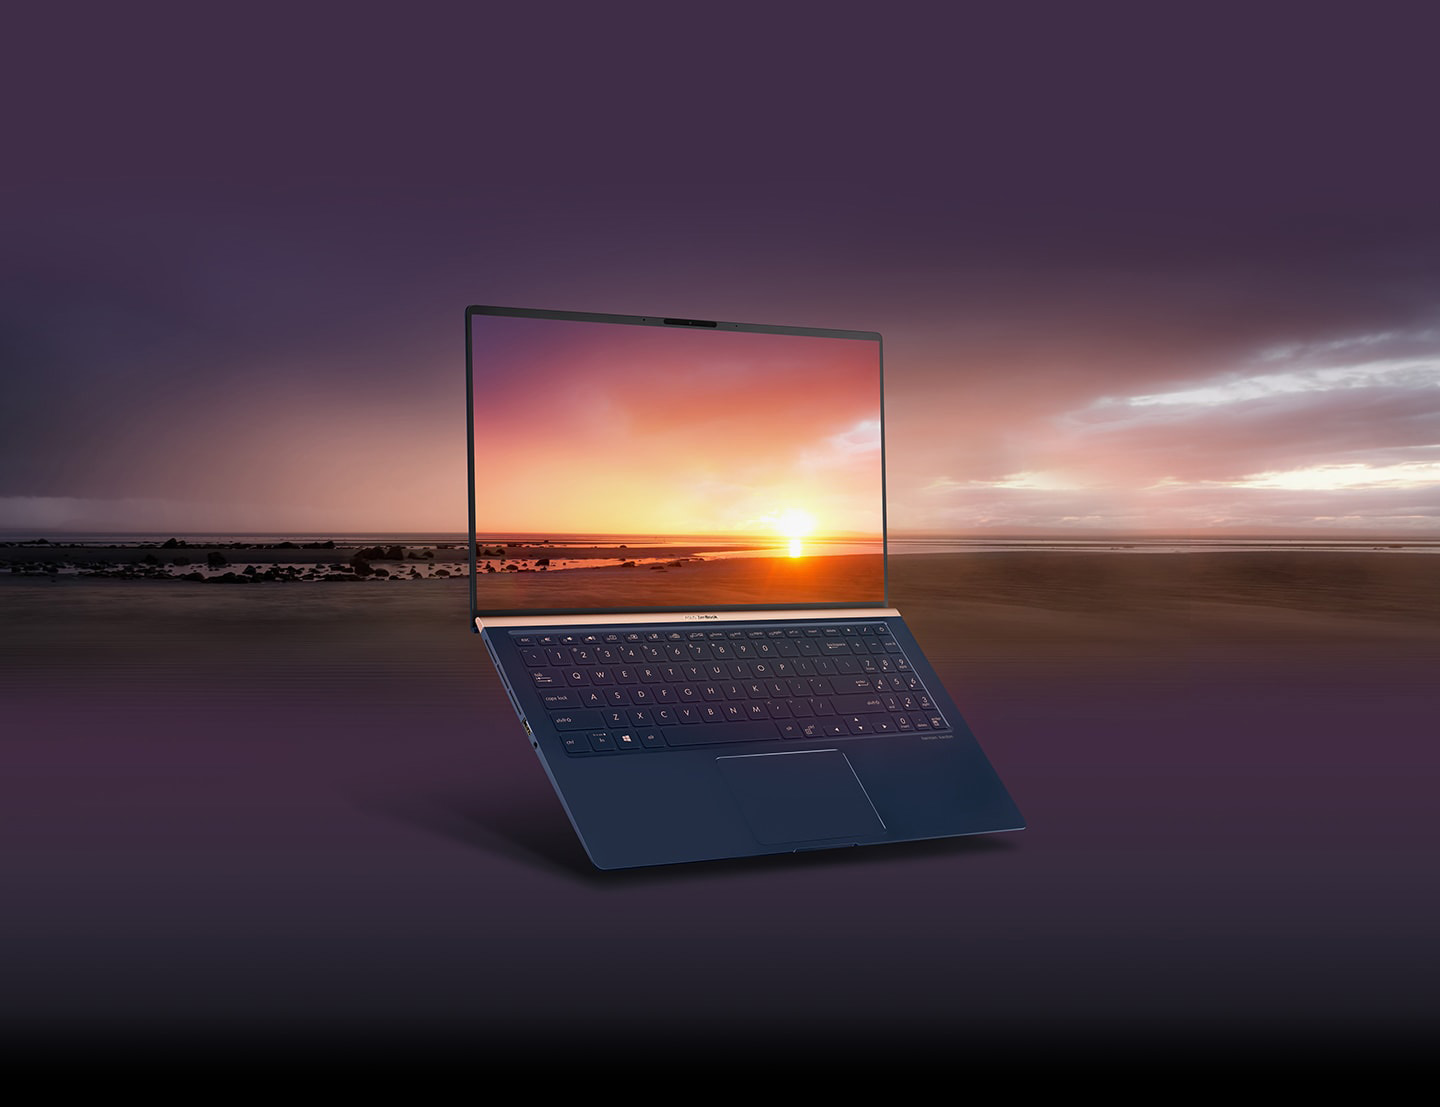
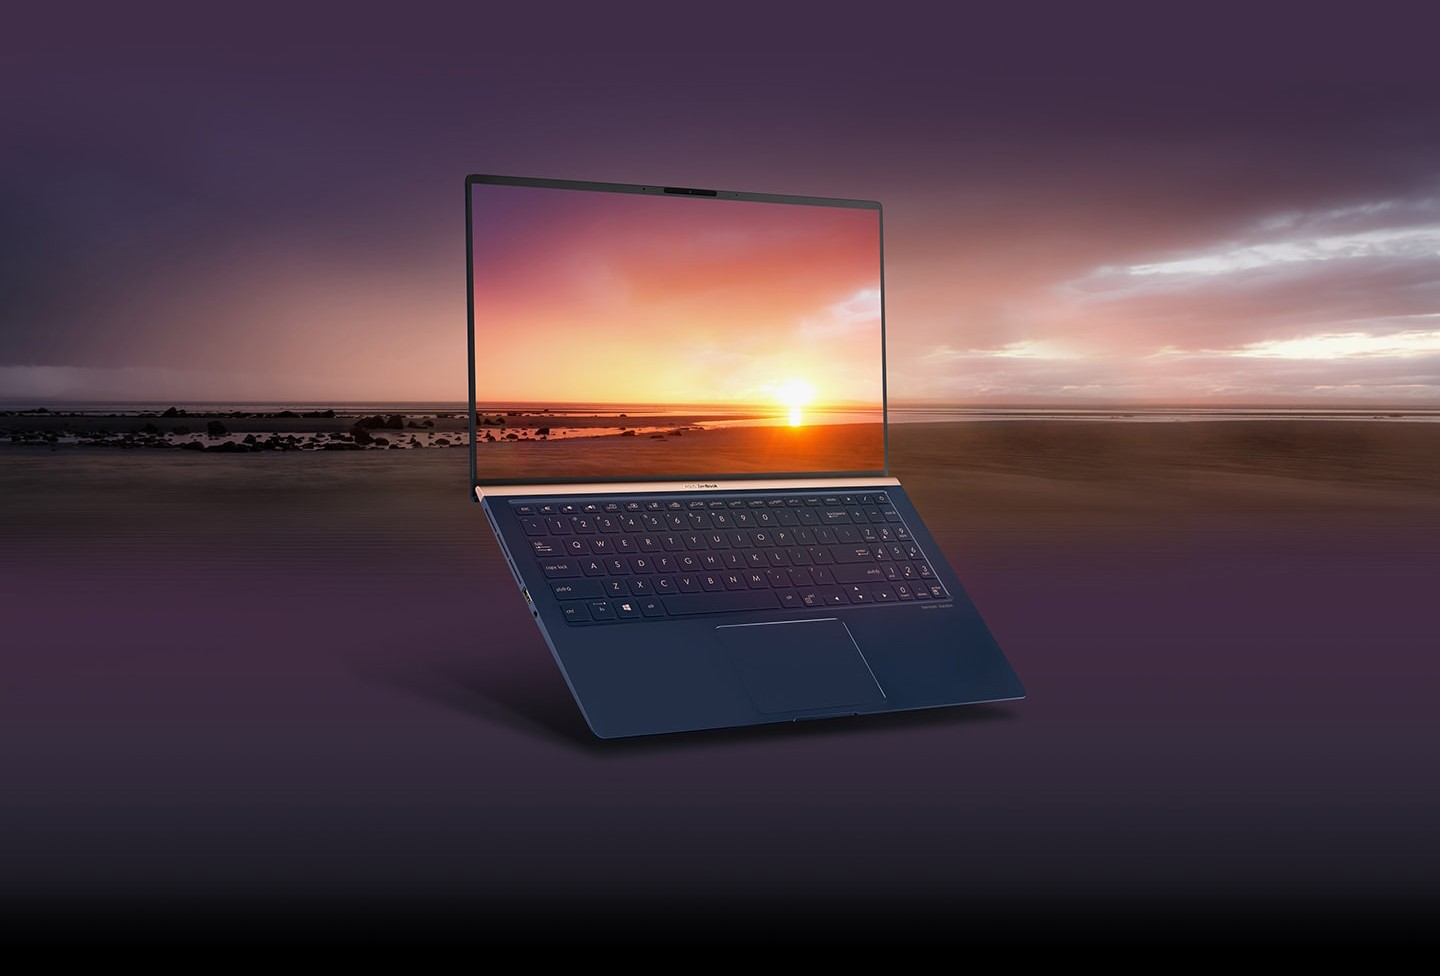
add pictures and text, optimize for all screens

diff --git a/index.html b/index.html
@@ -49,8 +49,22 @@
                 <div class="container" id="asus15buy">
                     <button class="btn" id="buy">Купить сейчас</button>
                 </div>
+                <div class="container-fluid" id="da2019">
+                    <img src="media/da2019.png" alt="Design Award 2019" height="80px" width="150">
+                </div>
             </div>
 
+            <div class="container-fluid" id="asus15info">
+                <p>Креативность, стиль, инновационность – это качества воплощает новый ZenBook 15.
+                    Каждая деталь этого ультрабука, являющегося самым компактным в сегменте 15-дюймовых
+                    моделей, предназначена для того, чтобы дать вам возможность максимально проявить
+                    свою творческую энергию. Безрамочный дисплей NanoEdge, высокопроизводительные
+                    компоненты, эксклюзивный экранный шарнир ErgoLift и эргономичная клавиатура с
+                    цифровым блоком клавиш – все это предлагается в виде стильного устройства с
+                    классическим дизайном в двух цветовых вариантах, синем и «ледяное серебро».
+                    ZenBook 15 готов к любой работе. А готовы ли вы творить вместе с ZenBook 15?
+                </p>
+            </div>
 
     </body>
 </html>

diff --git a/styles.css b/styles.css
@@ -3,6 +3,7 @@
 }
 
 #asus15{
+    background-color: black;
     background: url(media/15_desktop.jpg);
     background-size: cover;
     background-position: center;
@@ -14,6 +15,15 @@
 #asus15name{
     max-width: 640px;
     margin-top: 20px;
+    display: flex;
+    flex-flow: column;
+    justify-content: center;
+}
+
+#da2019{
+    max-width: 157px;
+    max-height: 40px;
+    margin-top: 620px;
     display: flex;
     flex-flow: column;
     justify-content: center;
@@ -35,13 +45,51 @@
     background-color: #f0dbc0;
 }
 
+#asus15info{
+    text-align: center;
+    color: azure;
+    background-color: rgb(0, 0, 0);
+    margin-top: -5px;
+    display: flex;
+    flex-direction: column;
+    align-items: center;
+}
+
+#asus15info p{
+    width: 70%;
+}
+
 @media (max-width: 768px){
     #asus15{
         background: url(media/15_mobile.jpg);
         background-size: cover;
         background-position: center;
-        height: 600px;
+        height: 1000px;
         display: flex;
         flex-flow: column;
+    }
+    
+    #asus15info p{
+        width: 100%;
+    }
+}
+
+@media (min-width: 1200px){
+    #asus15{
+        background: url(media/15_largedesktop.jpg);
+        background-size: cover;
+        background-position: center;
+        height: 1400px;
+        display: flex;
+        flex-flow: column;
+    }
+
+    #da2019{
+        max-width: 157px;
+        max-height: 40px;
+        margin-top: 1000px;
+        display: flex;
+        flex-flow: column;
+        justify-content: center;
     }
 }
